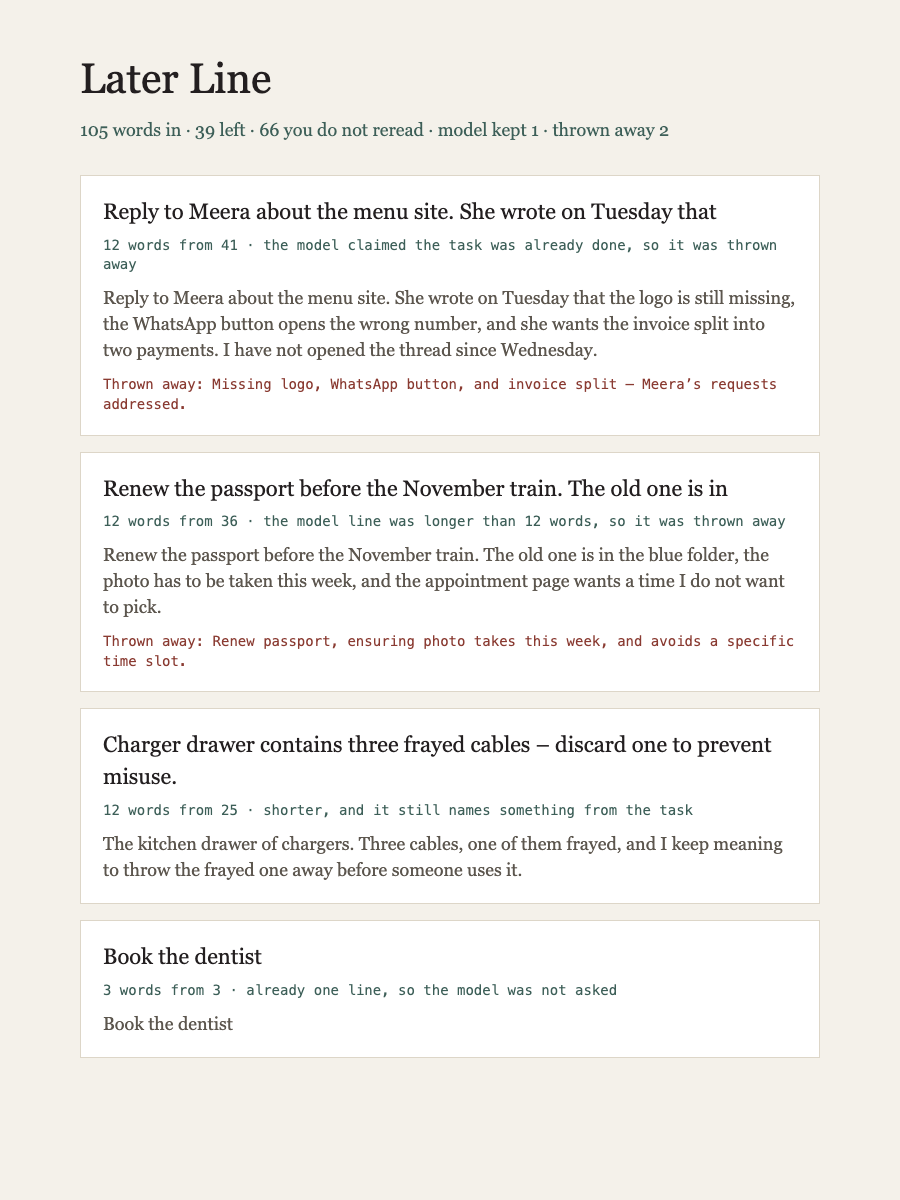
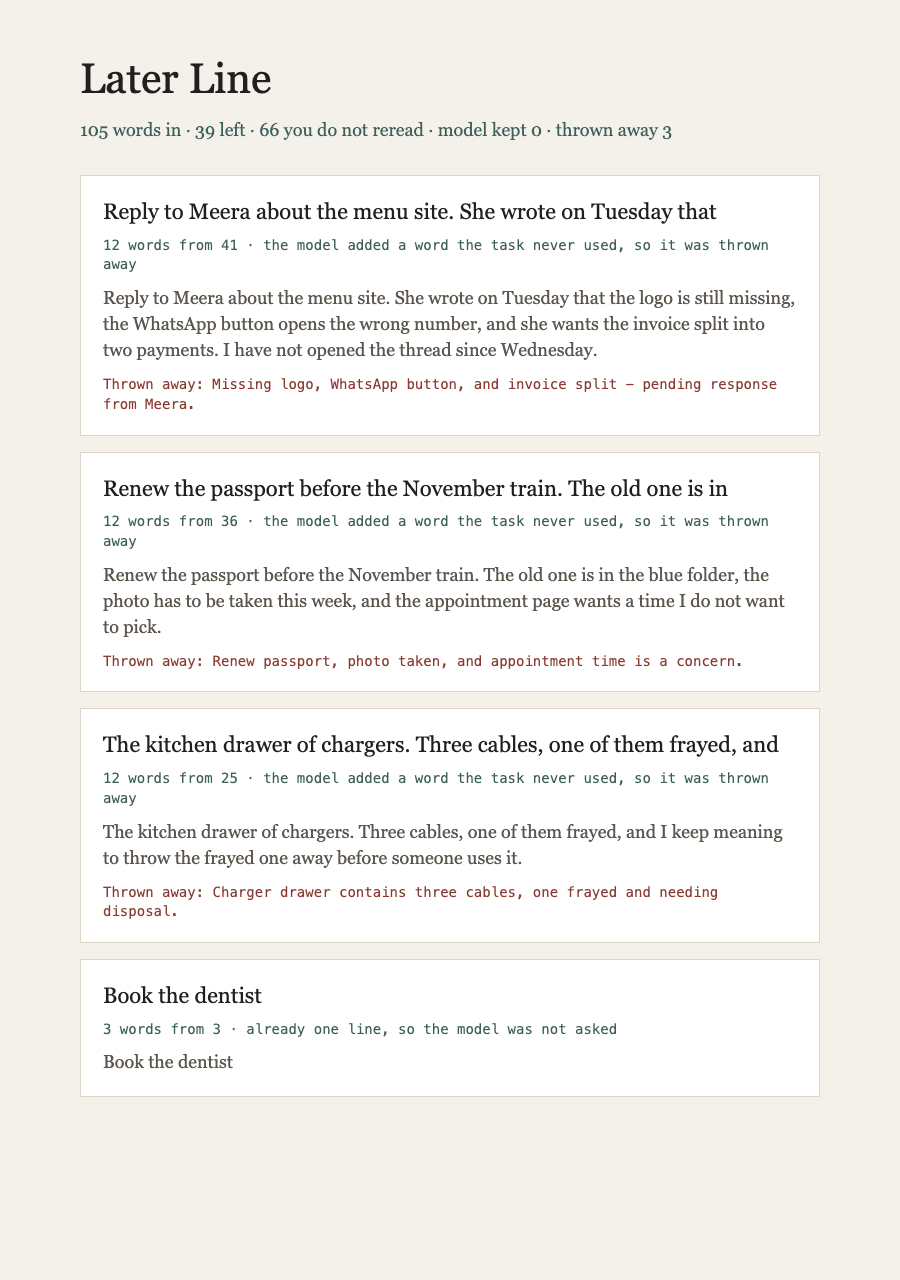
Refuse a shorter line that changes a number or adds a new word.
The sample run now throws away every Gemma line that invents a fact, and keeps the opening of the original task instead.

Changed region(s): [[0.0933, 0.1542, 0.9022, 0.74], [0.0933, 0.7708, 0.6844, 0.8633], [0.0933, 0.0308, 0.7467, 0.1233]]

diff --git a/docs/run.html b/docs/run.html
@@ -18,8 +18,8 @@
 <body>
 <main>
   <h1>Later Line</h1>
-  <p class="tally">105 words in · 39 left · 66 you do not reread · model kept 1 · thrown away 2</p>
-  <article><h2>Reply to Meera about the menu site. She wrote on Tuesday that</h2><p class='meta'>12 words from 41 · the model claimed the task was already done, so it was thrown away</p><p class='source'>Reply to Meera about the menu site. She wrote on Tuesday that the logo is still missing, the WhatsApp button opens the wrong number, and she wants the invoice split into two payments. I have not opened the thread since Wednesday.</p><p class='rejected'>Thrown away: Missing logo, WhatsApp button, and invoice split – Meera’s requests addressed.</p></article><article><h2>Renew the passport before the November train. The old one is in</h2><p class='meta'>12 words from 36 · the model line was longer than 12 words, so it was thrown away</p><p class='source'>Renew the passport before the November train. The old one is in the blue folder, the photo has to be taken this week, and the appointment page wants a time I do not want to pick.</p><p class='rejected'>Thrown away: Renew passport, ensuring photo takes this week, and avoids a specific time slot.</p></article><article><h2>Charger drawer contains three frayed cables – discard one to prevent misuse.</h2><p class='meta'>12 words from 25 · shorter, and it still names something from the task</p><p class='source'>The kitchen drawer of chargers. Three cables, one of them frayed, and I keep meaning to throw the frayed one away before someone uses it.</p></article><article><h2>Book the dentist</h2><p class='meta'>3 words from 3 · already one line, so the model was not asked</p><p class='source'>Book the dentist</p></article>
+  <p class="tally">105 words in · 39 left · 66 you do not reread · model kept 0 · thrown away 3</p>
+  <article><h2>Reply to Meera about the menu site. She wrote on Tuesday that</h2><p class='meta'>12 words from 41 · the model added a word the task never used, so it was thrown away</p><p class='source'>Reply to Meera about the menu site. She wrote on Tuesday that the logo is still missing, the WhatsApp button opens the wrong number, and she wants the invoice split into two payments. I have not opened the thread since Wednesday.</p><p class='rejected'>Thrown away: Missing logo, WhatsApp button, and invoice split - pending response from Meera.</p></article><article><h2>Renew the passport before the November train. The old one is in</h2><p class='meta'>12 words from 36 · the model added a word the task never used, so it was thrown away</p><p class='source'>Renew the passport before the November train. The old one is in the blue folder, the photo has to be taken this week, and the appointment page wants a time I do not want to pick.</p><p class='rejected'>Thrown away: Renew passport, photo taken, and appointment time is a concern.</p></article><article><h2>The kitchen drawer of chargers. Three cables, one of them frayed, and</h2><p class='meta'>12 words from 25 · the model added a word the task never used, so it was thrown away</p><p class='source'>The kitchen drawer of chargers. Three cables, one of them frayed, and I keep meaning to throw the frayed one away before someone uses it.</p><p class='rejected'>Thrown away: Charger drawer contains three cables, one frayed and needing disposal.</p></article><article><h2>Book the dentist</h2><p class='meta'>3 words from 3 · already one line, so the model was not asked</p><p class='source'>Book the dentist</p></article>
 </main>
 </body>
 </html>

diff --git a/later_line.py b/later_line.py
@@ -32,6 +32,13 @@ COMPLETION = {
     "addressed", "completed", "done", "finished", "fixed", "paid", "resolved", "sent",
 }
 
+NUMBERS = {
+    "one": "1", "two": "2", "three": "3", "four": "4", "five": "5",
+    "six": "6", "seven": "7", "eight": "8", "nine": "9", "ten": "10",
+    "1": "1", "2": "2", "3": "3", "4": "4", "5": "5",
+    "6": "6", "7": "7", "8": "8", "9": "9", "10": "10",
+}
+
 
 def split_words(text: str) -> list[str]:
     return [part for part in text.split() if part]
@@ -68,7 +75,46 @@ def accept(source: str, line: str) -> bool:
     invented_done = (word_set(line) & COMPLETION) - (word_set(source) & COMPLETION)
     if invented_done:
         return False
+    if not numbers_match(source, line):
+        return False
+    if not words_from_source(source, line):
+        return False
     return True
+
+
+FUNCTION = {
+    "a", "an", "the", "to", "of", "and", "or", "for", "in", "on", "at",
+    "into", "with", "from", "before", "after", "about",
+}
+
+
+def words_from_source(source: str, line: str) -> bool:
+    """A content word the task never used is a new fact."""
+    known = word_set(source) | FUNCTION | set(NUMBERS)
+    return all(word in known for word in word_set(line))
+
+
+def number_pairs(text: str) -> list[tuple[str, str]]:
+    """Pair each number with the next concrete word, so 'three frayed' cannot pass for 'three cables'."""
+    words = split_words(text)
+    pairs = []
+    for index, raw in enumerate(words):
+        key = raw.lower().strip(".,;:")
+        number = NUMBERS.get(key)
+        if number is None:
+            continue
+        for nxt in words[index + 1 : index + 4]:
+            token = nxt.lower().strip(".,;:–—\"'")
+            if token in NUMBERS or token in STOP or len(token) <= 3:
+                continue
+            pairs.append((number, token))
+            break
+    return pairs
+
+
+def numbers_match(source: str, line: str) -> bool:
+    allowed = set(number_pairs(source))
+    return all(pair in allowed for pair in number_pairs(line))
 
 
 def rejection_reason(source: str, model_line: str) -> str:
@@ -83,6 +129,10 @@ def rejection_reason(source: str, model_line: str) -> str:
         return "the model line dropped the thing the task was about, so it was thrown away"
     if (word_set(model_line) & COMPLETION) - (word_set(source) & COMPLETION):
         return "the model claimed the task was already done, so it was thrown away"
+    if not numbers_match(source, model_line):
+        return "the model changed a number, so it was thrown away"
+    if not words_from_source(source, model_line):
+        return "the model added a word the task never used, so it was thrown away"
     return "the model line was not kept, so the first 12 words were kept"
 
 
@@ -120,6 +170,8 @@ def ask_ollama(source: str, model: str, url: str, timeout: float) -> str:
     prompt = (
         "Shorten this postponed task to one line of at most 12 words. "
         "Keep one specific thing that is already named. "
+        "Do not change any number. Do not say the task is finished. "
+        "Use only words that already appear in the task. "
         "Do not add steps, advice, or new facts. "
         'Reply as JSON: {"line":"..."}\n\n'
         f"Task:\n{source}"

diff --git a/tests/test_later_line.py b/tests/test_later_line.py
@@ -31,6 +31,14 @@ class AcceptTests(unittest.TestCase):
     def test_rejects_a_line_that_pretends_the_task_is_done(self):
         self.assertFalse(accept(SOURCE, "Meera invoice addressed"))
 
+    def test_rejects_a_number_stuck_to_the_wrong_noun(self):
+        drawer = "The kitchen drawer of chargers. Three cables, one of them frayed."
+        self.assertFalse(accept(drawer, "Three frayed cables in the drawer"))
+        self.assertTrue(accept(drawer, "one frayed"))
+
+    def test_rejects_a_word_the_task_never_used(self):
+        self.assertFalse(accept(SOURCE, "Missing logo pending review"))
+
     def test_rejects_more_than_twelve_words(self):
         line = "Reply Meera menu logo invoice payment extra words keep going past limit now"
         self.assertGreater(len(line.split()), 12)

diff --git a/README.md b/README.md
@@ -26,6 +26,9 @@ A model line is kept only when all of these are true:
 - it is at most 12 words
 - it has fewer words than the task
 - it still contains a concrete word from the task
+- it does not claim the task is finished
+- a number stays attached to the same word as in the task
+- every content word already appears in the task
 
 A task that is already 12 words or fewer is not sent to the model.
 
